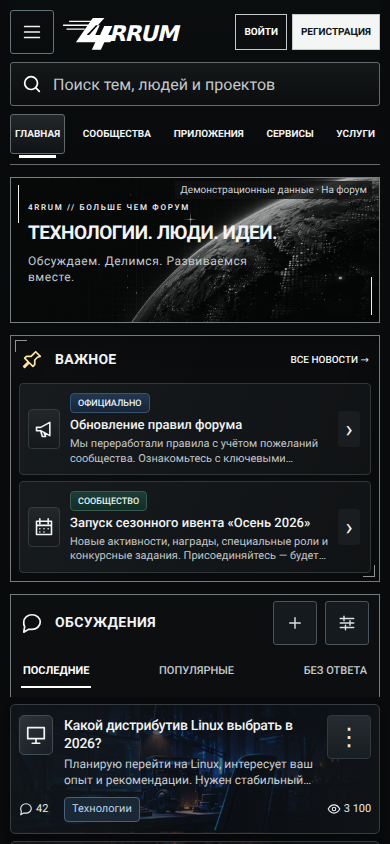
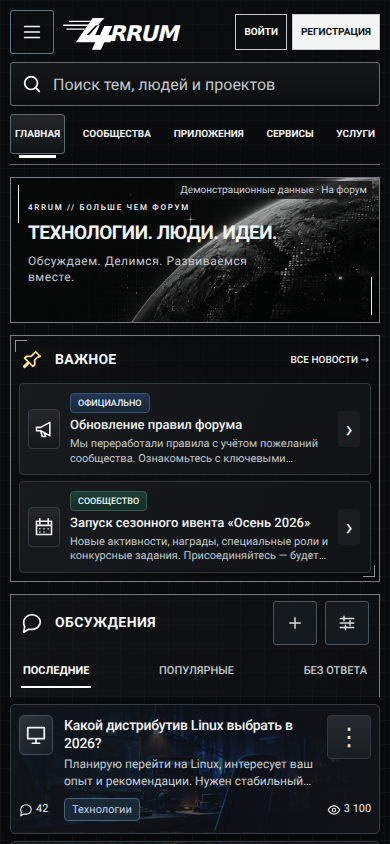
Доводка главной по референсу: сетка, читаемость и навигация v74 (#110)
* Polish approved homepage grid, readability and category navigation (v74)

* Record reviewed v74 browser snapshots and restore strict visual checks

* Keep deployment build-info revision in sync with homepage v74

diff --git a/apps/web/app/home-alpha.css b/apps/web/app/home-alpha.css
@@ -1,11 +1,11 @@
-/* 4rrum v72. One homepage stylesheet; geometry follows the 1672×941 approved reference. */
+/* 4rrum v74. One homepage stylesheet; geometry follows the 1672×941 approved reference. */
 @font-face {font-family:ForumRoboto;src:url('/fonts/roboto-cyrillic-400.woff2') format('woff2');font-style:normal;font-weight:400;font-display:swap;unicode-range:U+0301,U+0400-045F,U+0490-0491,U+04B0-04B1,U+2116;}
 @font-face {font-family:ForumRoboto;src:url('/fonts/roboto-latin-400.woff2') format('woff2');font-style:normal;font-weight:400;font-display:swap;unicode-range:U+0000-024F,U+2000-206F,U+20AC,U+2122;}
 @font-face {font-family:ForumRoboto;src:url('/fonts/roboto-cyrillic-500.woff2') format('woff2');font-style:normal;font-weight:500;font-display:swap;unicode-range:U+0301,U+0400-045F,U+0490-0491,U+04B0-04B1,U+2116;}
 @font-face {font-family:ForumRoboto;src:url('/fonts/roboto-latin-500.woff2') format('woff2');font-style:normal;font-weight:500;font-display:swap;unicode-range:U+0000-024F,U+2000-206F,U+20AC,U+2122;}
 @font-face {font-family:ForumRoboto;src:url('/fonts/roboto-cyrillic-700.woff2') format('woff2');font-style:normal;font-weight:700;font-display:swap;unicode-range:U+0301,U+0400-045F,U+0490-0491,U+04B0-04B1,U+2116;}
 @font-face {font-family:ForumRoboto;src:url('/fonts/roboto-latin-700.woff2') format('woff2');font-style:normal;font-weight:700;font-display:swap;unicode-range:U+0000-024F,U+2000-206F,U+20AC,U+2122;}
-body:has(.forum-home) {background:#080a0b!important;color:#f1f3f4;min-height:100dvh;height:auto;overflow-y:auto;background-image:linear-gradient(#ffffff04 1px,transparent 1px),linear-gradient(90deg,#ffffff04 1px,transparent 1px);background-size:24px 24px;}
+body:has(.forum-home) {background-color:#080a0b!important;color:#f1f3f4;min-height:100dvh;height:auto;overflow-y:auto;background-image:linear-gradient(#ffffff07 1px,transparent 1px),linear-gradient(90deg,#ffffff07 1px,transparent 1px);background-size:24px 24px;}
 body:has(.forum-home) .app-page-frame {display:block;margin:0;padding:0;}
 body:has(.forum-home) main.shell.main {width:100%;max-width:none;margin:0;padding:0;overflow:visible;}
 body:has(.forum-home) .site-footer {display:none;}
@@ -55,7 +55,7 @@ body:has(.forum-home) .site-footer {display:none;}
 .forum-home .forum-category-heading.is-active {background:linear-gradient(90deg,#2c3033,#202427);box-shadow:inset 3px 0 #f4f6f7;border-radius:2px;}
 .forum-home .forum-category-counts {font-size:12px;color:#d4d9dc;min-width:22px;margin-left:auto;text-align:right;z-index:1;font-variant-numeric:tabular-nums;pointer-events:none;}
 .forum-home .forum-category-toggle {position:absolute;inset:0;width:100%;height:100%;padding:0;z-index:0;text-align:right;color:#afb8bd;}
-.forum-home .forum-category-toggle svg {width:12px;height:12px;margin:0 0 0 auto;opacity:0;}
+.forum-home .forum-category-toggle svg {width:12px;height:12px;margin:0 30px 0 auto;opacity:.8;}
 .forum-home .forum-category-toggle:focus-visible svg,.forum-home .forum-category-heading:hover .forum-category-toggle svg {opacity:1;}
 .forum-home .forum-category-toggle[aria-expanded=false] svg {transform:rotate(-90deg);}
 .forum-home .forum-category-children {margin:4px 4px 6px 25px;padding:0 0 0 8px;border-left:1px solid #535c60;}
@@ -110,13 +110,13 @@ body:has(.forum-home) .site-footer {display:none;}
 .forum-home :is(.forum-feed-create,.forum-filter-toggle) {display:grid;place-items:center;width:30px;height:32px;min-width:30px;border:1px solid #4a545b;border-radius:3px;background:#151a1e;color:#d9e0e4;}
 .forum-home .forum-feed-create>span {display:none;}
 .forum-home :is(.forum-feed-create,.forum-filter-toggle) svg {width:18px;height:18px;}
-.forum-home .forum-topic-columns {display:grid;grid-template-columns:minmax(0,1fr) 100px 56px 76px 172px 30px;gap:10px;min-height:30px;padding:0 10px 0 80px;align-items:center;border:1px solid #3d4549;color:#ced4d7;font-size:10px;text-transform:uppercase;white-space:nowrap;}
+.forum-home .forum-topic-columns {display:grid;grid-template-columns:minmax(0,1fr) 122px 44px 64px 158px 30px;gap:10px;min-height:30px;padding:0 10px 0 80px;align-items:center;border:1px solid #3d4549;color:#ced4d7;font-size:10px;text-transform:uppercase;white-space:nowrap;}
 .forum-home .forum-feed {display:grid;gap:5px;border:0;background:transparent;overflow:visible;}
-.forum-home .forum-topic {position:relative;display:grid;grid-template-columns:54px minmax(0,1fr) 100px 56px 76px 172px 30px;gap:10px;align-items:center;min-height:62px;margin:0;padding:4px 10px 4px 14px;border:1px solid #343c42;border-radius:5px;background-color:#101418;background-image:linear-gradient(90deg,#101418fa 0%,#101418e8 26%,#1014188c 52%,#101418b8 75%,#101418eb 100%),var(--topic-image);background-size:auto,100% auto;background-repeat:no-repeat;background-position:center,right center;box-shadow:0 2px 6px #0005;transition:border-color .15s,box-shadow .15s;isolation:isolate;}
+.forum-home .forum-topic {position:relative;display:grid;grid-template-columns:54px minmax(0,1fr) 122px 44px 64px 158px 30px;gap:10px;align-items:center;min-height:62px;margin:0;padding:4px 10px 4px 14px;border:1px solid #343c42;border-radius:5px;background-color:#101418;background-image:linear-gradient(90deg,#101418fa 0%,#101418e8 26%,#101418ab 52%,#101418ce 75%,#101418eb 100%),var(--topic-image);background-size:auto,100% auto;background-repeat:no-repeat;background-position:center,right center;box-shadow:0 2px 6px #0005;transition:border-color .15s,box-shadow .15s;isolation:isolate;}
 .forum-home .forum-topic:hover,.forum-home .forum-topic:focus-within {z-index:2;border-color:#9ab8c9;box-shadow:0 0 0 1px #829bad55,0 3px 12px #0008;}
 .forum-home .forum-topic:has(.forum-actions-popover),.forum-home .forum-topic:has(.forum-action-notice) {z-index:30;}
 .forum-home .forum-topic:is(.is-unread,.is-updated)::before {content:'';position:absolute;left:0;top:5px;bottom:5px;width:3px;border-radius:2px;background:#77cbbb;box-shadow:0 0 7px #77cbbb45;}
-.forum-home .forum-topic.is-read .forum-topic-content {opacity:.8;}
+.forum-home .forum-topic.is-read .forum-topic-content {opacity:1;}
 .forum-home .forum-topic-avatar {grid-column:1;grid-row:1;display:block;}
 .forum-home .forum-topic-category-icon {display:grid;place-items:center;width:50px;height:50px;border:1px solid #424c54;border-radius:5px;background:linear-gradient(140deg,#2c343a,#171d22);box-shadow:inset 0 0 8px #ffffff05;}
 .forum-home .forum-topic-category-icon svg {width:28px;height:28px;}
@@ -127,7 +127,7 @@ body:has(.forum-home) .site-footer {display:none;}
 .forum-home .forum-topic-excerpt {font-size:12px;line-height:1.25;color:#c5ccd0;display:-webkit-box;-webkit-line-clamp:2;-webkit-box-orient:vertical;overflow:hidden;margin:0;}
 .forum-home .forum-topic-context {display:none;}
 .forum-home .forum-topic-category-cell {grid-column:3;min-width:0;}
-.forum-home .forum-topic-category-cell a {display:block;overflow:hidden;text-overflow:ellipsis;white-space:nowrap;border:1px solid color-mix(in srgb,var(--chip-accent,#98b4cd) 42%,#2c3842);border-radius:4px;background:color-mix(in srgb,var(--chip-accent,#98b4cd) 16%,#0b1219);color:color-mix(in srgb,var(--chip-accent,#98b4cd) 42%,#fff);font-size:12px;padding:5px 10px;}
+.forum-home .forum-topic-category-cell a {display:block;overflow:hidden;text-overflow:ellipsis;white-space:normal;overflow-wrap:anywhere;line-height:1.2;border:1px solid color-mix(in srgb,var(--chip-accent,#98b4cd) 42%,#2c3842);border-radius:4px;background:color-mix(in srgb,var(--chip-accent,#98b4cd) 16%,#0b1219);color:color-mix(in srgb,var(--chip-accent,#98b4cd) 42%,#fff);font-size:12px;padding:5px 8px;}
 .forum-home .forum-topic-metric {display:flex;align-items:center;justify-content:center;font-size:13px;font-variant-numeric:tabular-nums;color:#e8eef2;white-space:nowrap;}
 .forum-home .forum-topic-metric svg {display:none;}
 .forum-home .forum-topic-last {display:flex;align-items:center;gap:10px;min-width:0;}
@@ -224,8 +224,8 @@ body:has(.forum-home) .site-footer {display:none;}
  .forum-home .forum-header-search {width:240px;min-width:140px;}.forum-home .forum-search-shortcut {display:none;}
  .forum-home .auth-actions {gap:8px;}.forum-home .auth-actions a {padding-inline:12px;}
  .forum-home .forum-hero-copy {padding:33px 24px;width:90%;}.forum-home .forum-hero-copy h1 {font-size:30px;}
- .forum-home .forum-topic {grid-template-columns:44px minmax(0,1fr) 82px 34px 42px 106px 28px;gap:7px;padding-left:8px;}
- .forum-home .forum-topic-columns {grid-template-columns:minmax(0,1fr) 82px 34px 42px 106px 28px;gap:7px;padding-left:60px;font-size:8px;}
+ .forum-home .forum-topic {grid-template-columns:44px minmax(0,1fr) 96px 30px 38px 100px 28px;gap:7px;padding-left:8px;}
+ .forum-home .forum-topic-columns {grid-template-columns:minmax(0,1fr) 96px 30px 38px 100px 28px;gap:7px;padding-left:60px;font-size:8px;}
  .forum-home .forum-topic-category-icon {width:42px;height:46px;}
  .forum-home .forum-topic h2 {font-size:13px;}.forum-home .forum-topic-excerpt {font-size:11px;}
  .forum-home .forum-topic-category-cell a {font-size:11px;padding:5px 6px;}
@@ -250,8 +250,8 @@ body:has(.forum-home) .site-footer {display:none;}
  .forum-home .forum-sidebar.is-open {display:flex;}.forum-home .forum-sidebar-close {display:grid;place-items:center;width:44px;height:44px;align-self:end;border:1px solid #7e959f;}
  .forum-home .forum-sidebar-backdrop {display:block;position:fixed;inset:0;z-index:60;background:#0009;border-radius:0;}
  .forum-home .forum-hero-copy {padding:33px 32px;width:95%;}.forum-home .forum-hero-copy h1 {font-size:34px;}
- .forum-home .forum-topic {grid-template-columns:48px minmax(0,1fr) 92px 38px 48px 120px 30px;gap:8px;padding-left:8px;}
- .forum-home .forum-topic-columns {grid-template-columns:minmax(0,1fr) 92px 38px 48px 120px 30px;gap:8px;padding-left:64px;font-size:8px;}
+ .forum-home .forum-topic {grid-template-columns:48px minmax(0,1fr) 104px 34px 44px 112px 30px;gap:8px;padding-left:8px;}
+ .forum-home .forum-topic-columns {grid-template-columns:minmax(0,1fr) 104px 34px 44px 112px 30px;gap:8px;padding-left:64px;font-size:8px;}
  .forum-home .forum-topic-category-icon {width:46px;height:48px;}.forum-home .forum-topic-last strong {font-size:12px;}.forum-home .forum-topic-last .avatar {width:28px!important;height:28px!important;}
  .forum-home .forum-important-row {grid-template-columns:44px 84px minmax(0,1fr) 84px 36px 44px 26px;gap:8px;}.forum-home .forum-important-icon {width:42px;height:46px;}
 }
@@ -286,3 +286,15 @@ body:has(.forum-home) .site-footer {display:none;}
 @media (forced-colors:active) {.forum-home :is(a,button,input,summary):focus-visible {outline:2px solid Highlight;}.forum-home :is(.forum-topic,.forum-panel,.forum-important,.forum-categories,.forum-side-stats) {border-color:CanvasText;}.forum-home .forum-hero-art {display:none;}}
 
 @media (min-width:1051px) {.forum-home .forum-app-category,.forum-home .forum-all-communities {display:none;}}
+
+/* Reference detail: restrained grid and edge lighting, readable visited topics. */
+.forum-home :is(.forum-categories,.forum-side-stats,.forum-panel,.forum-important) {
+ background-image:linear-gradient(125deg,#ffffff05,transparent 45%),linear-gradient(#ffffff03 1px,transparent 1px),linear-gradient(90deg,#ffffff03 1px,transparent 1px);
+ background-size:auto,24px 24px,24px 24px;
+ box-shadow:inset 0 0 30px #0004,0 0 0 1px #ffffff05;
+}
+.forum-home .forum-topic.is-read h2 {color:#dce1e4;}
+.forum-home .forum-topic.is-read .forum-topic-excerpt {color:#b8c0c5;}
+.forum-home .forum-category-heading:has(.forum-category-toggle)>a {max-width:calc(100% - 48px);}
+.forum-home .forum-category-heading:has(.forum-category-toggle) .forum-category-counts {min-width:18px;}
+.forum-home .forum-feed-toolbar {background-image:linear-gradient(90deg,#ffffff04,transparent),linear-gradient(#ffffff03 1px,transparent 1px);background-size:auto,24px 24px;}

diff --git a/apps/web/components/reference-home.tsx b/apps/web/components/reference-home.tsx
@@ -18,8 +18,10 @@ import { HomeWebVitals } from './home/web-vitals';
 import type { Community, HomeInitialData, HomeOverview } from './home/types';
 export type { HomeInitialData } from './home/types';
 
-type Glyph = 'home' | 'work' | 'media' | 'service' | 'search' | 'plus' | 'bell' | 'comment' | 'eye' | 'bookmark' | 'close' | 'chevron' | 'menu' | 'filter' | 'code' | 'flame' | 'game' | 'growth' | 'community' | 'pin' | 'paperclip' | 'monitor' | 'chip' | 'cube' | 'wifi' | 'image' | 'document' | 'megaphone' | 'calendar' | 'stats';
+type Glyph = 'home' | 'work' | 'media' | 'service' | 'search' | 'plus' | 'bell' | 'comment' | 'eye' | 'bookmark' | 'close' | 'chevron' | 'menu' | 'filter' | 'code' | 'flame' | 'game' | 'growth' | 'community' | 'pin' | 'paperclip' | 'monitor' | 'chip' | 'cube' | 'wifi' | 'image' | 'document' | 'megaphone' | 'calendar' | 'stats' | 'cart' | 'archive';
 const paths: Record<Glyph, string> = {
+ cart:'M2 3h3l3 13h11l3-9H6M9 21h.01M18 21h.01',
+ archive:'M4 7h16v14H4ZM3 3h18v4H3ZM9 11h6',
  monitor:'M3 4h18v12H3ZM8 21h8M12 16v5',
  chip:'M7 7h10v10H7ZM9 2v5M15 2v5M9 17v5M15 17v5M2 9h5M2 15h5M17 9h5M17 15h5',
  cube:'m12 2 9 5v10l-9 5-9-5V7ZM3 7l9 5 9-5M12 12v10',
@@ -54,6 +56,9 @@ function Icon({ name }: { name: Glyph }) {
  return <svg data-ui-icon="true" viewBox="0 0 24 24" fill="none" stroke="currentColor" strokeWidth="1.9" strokeLinecap="round" strokeLinejoin="round" aria-hidden="true"><path d={paths[name]}/></svg>;
 }
 function categoryIcon(name: string): Glyph {
+ if (/архив/i.test(name)) return 'archive';
+ if (/торгов|магазин/i.test(name)) return 'cart';
+ if (/общени/i.test(name)) return 'comment';
  if (/новост|правил/i.test(name)) return 'document';
  if (/желез|компьютер|hardware/i.test(name)) return 'chip';
  if (/интернет|сет|сервер/i.test(name) && !/проект/i.test(name)) return 'wifi';
@@ -237,7 +242,7 @@ export function HomeDashboard({ initialData, demo = false }: { initialData: Home
  const visible = demo ? topics.filter(item=>item.format==='TOPIC' && (tab!=='unanswered'||!item.commentCount) && (!community||item.community.slug===community)) : topics;
  const news = initialData.announcements?.slice(0, 4) ?? [];
  const important = [...news.slice(0,2), ...topics.filter(item => item.isOfficial && item.pinnedUntil && Date.parse(item.pinnedUntil)>Date.now() && !news.some(row => row.id === item.id))].slice(0,2);
- return <div id="top" className={`forum-home ${viewer === 'guest' ? 'is-guest' : ''}`} data-home-reference="v49" data-home-revision="v73" onClickCapture={demo ? event=>{const link=(event.target as HTMLElement).closest('a');if(link && link.getAttribute('href')!=='/')event.preventDefault();} : undefined}>
+ return <div id="top" className={`forum-home ${viewer === 'guest' ? 'is-guest' : ''}`} data-home-reference="v49" data-home-revision="v74" onClickCapture={demo ? event=>{const link=(event.target as HTMLElement).closest('a');if(link && link.getAttribute('href')!=='/')event.preventDefault();} : undefined}>
   {!demo && <HomeWebVitals/>}
   <aside ref={sidebarRef} className={`forum-sidebar ${sidebar ? 'is-open' : ''}`} aria-label="Навигация форума">
    <button type="button" className="forum-sidebar-close" onClick={()=>setSidebar(false)} aria-label="Закрыть меню"><Icon name="close"/></button>

diff --git a/apps/web/components/home/community-panels.tsx b/apps/web/components/home/community-panels.tsx
@@ -98,10 +98,10 @@ export function CommunityPanels({
     </section>
 
     <section className="forum-panel forum-popular-today">
-      <header><h2><PanelIcon kind="flame"/>Популярное сегодня</h2><Link href="/?tab=popular">Все →</Link></header>
+      <header><h2><PanelIcon kind="flame"/>{popularToday.isFallback ? 'Популярные темы' : 'Популярное сегодня'}</h2><Link href={popularToday.isFallback ? "/?tab=new" : "/?tab=popular"}>Все →</Link></header>
       {popularToday.items.length
         ? <>
-            {popularToday.isFallback && <p className="forum-popular-note">За 24 ч новых ответов нет · ниже общая статистика тем</p>}
+            {popularToday.isFallback && <p className="forum-popular-note">По просмотрам за всё время</p>}
             <ol>{popularToday.items.map((item,index)=><li key={item.slug}>
               <span className="forum-popular-rank">{index+1}</span>
               <Link href={`/p/${item.slug}`}>

diff --git a/apps/web/app/api/build-info/route.ts b/apps/web/app/api/build-info/route.ts
@@ -20,7 +20,7 @@ export async function GET() {
       service: 'web',
       commit: currentCommit(),
       homeReference: 'v49',
-      homeRevision: 'v73',
+      homeRevision: 'v74',
       railwayService: process.env.RAILWAY_SERVICE_NAME || null,
       railwayEnvironment: process.env.RAILWAY_ENVIRONMENT_NAME || null,
       deploymentId: process.env.RAILWAY_DEPLOYMENT_ID || null,

diff --git a/docs/design-reference/README.md b/docs/design-reference/README.md
@@ -1,10 +1,21 @@
-# Главная v73: утверждённый референс и проверка реализации
+# Главная v74: утверждённый референс и проверка реализации
 
 `home-approved.png` — тёмный макет пользователя, 1672 × 941. Ранее здесь находился другой, светлый макет; он заменён исходным утверждённым изображением.
 
 `/preview/home` — отдельная страница с демонстрационными данными для сопоставления композиции. Она закрыта от индексации. На основной странице остаются реальные обсуждения, участники и счётчики: числа и активность из макета не подставляются в рабочий форум. Согласованное меню: Главная, Сообщества, Приложения, Сервисы, Услуги.
 
 `home-implemented-desktop.png` и `home-implemented-mobile.png` — снимки проверенной реализации, а не исходный макет. Pixelmatch проверяет регрессию относительно этих снимков; он не доказывает попиксельного совпадения с дизайнерским изображением. Отдельные геометрические проверки фиксируют положение и ширину колонок, высоту героя и строк. Смена снимков требует визуального просмотра. Канонические снимки снимаются Chromium из Playwright в GitHub Actions; файлы с суффиксом `-portable` используются только для локального portable Chromium. Браузер теста фиксирует UTC: часовой пояс машины не должен менять подписи дат. Разные движки/системные шрифты не смешиваются в одном пиксельном эталоне.
+
+## Доводка v74 по скриншотам пользователя
+
+- Исправлен shorthand `background: … !important`, который сбрасывал фоновую сетку. Сетка теперь видна на странице и деликатно повторяется в панелях.
+- Категории получили больше ширины и перенос текста вместо `Продвижен…`. Короткие категории остаются компактными; длинные могут занимать две строки.
+- Фоны тем затемнены в зоне счётчиков. Прочитанные темы больше не используют общую opacity: текст сохраняет контраст, а состояние передают цвет и отсутствие зелёной полосы.
+- Стрелки раскрытия дерева видны постоянно; пустое место строки продолжает раскрывать раздел, название ведёт в него. Уточнены иконки общения, торговли и архива.
+- Когда за сутки нет ответов, боковой блок называется «Популярные темы» с подписью «По просмотрам за всё время». Его ссылка ведёт в общую ленту; суточная вкладка сохраняет честное пустое состояние.
+- Сборка, проверки исходников и portable Chromium: сценарии действий, рейтинг, ошибки API, адаптивность 320–1920 px; axe desktop/mobile не обнаружил нарушений. Канонические снимки дополнительно проверяются в CI.
+
+Реальные тестовые темы и небольшое число участников остаются реальными данными. Макет с вымышленной активностью не переносится в production. Дизайнерское изображение и скриншоты реализации не идентичны: планета является отдельным ассетом, аватары и содержание взяты из форума, количество важных сообщений зависит от данных.
 
 ## Изменения
 
